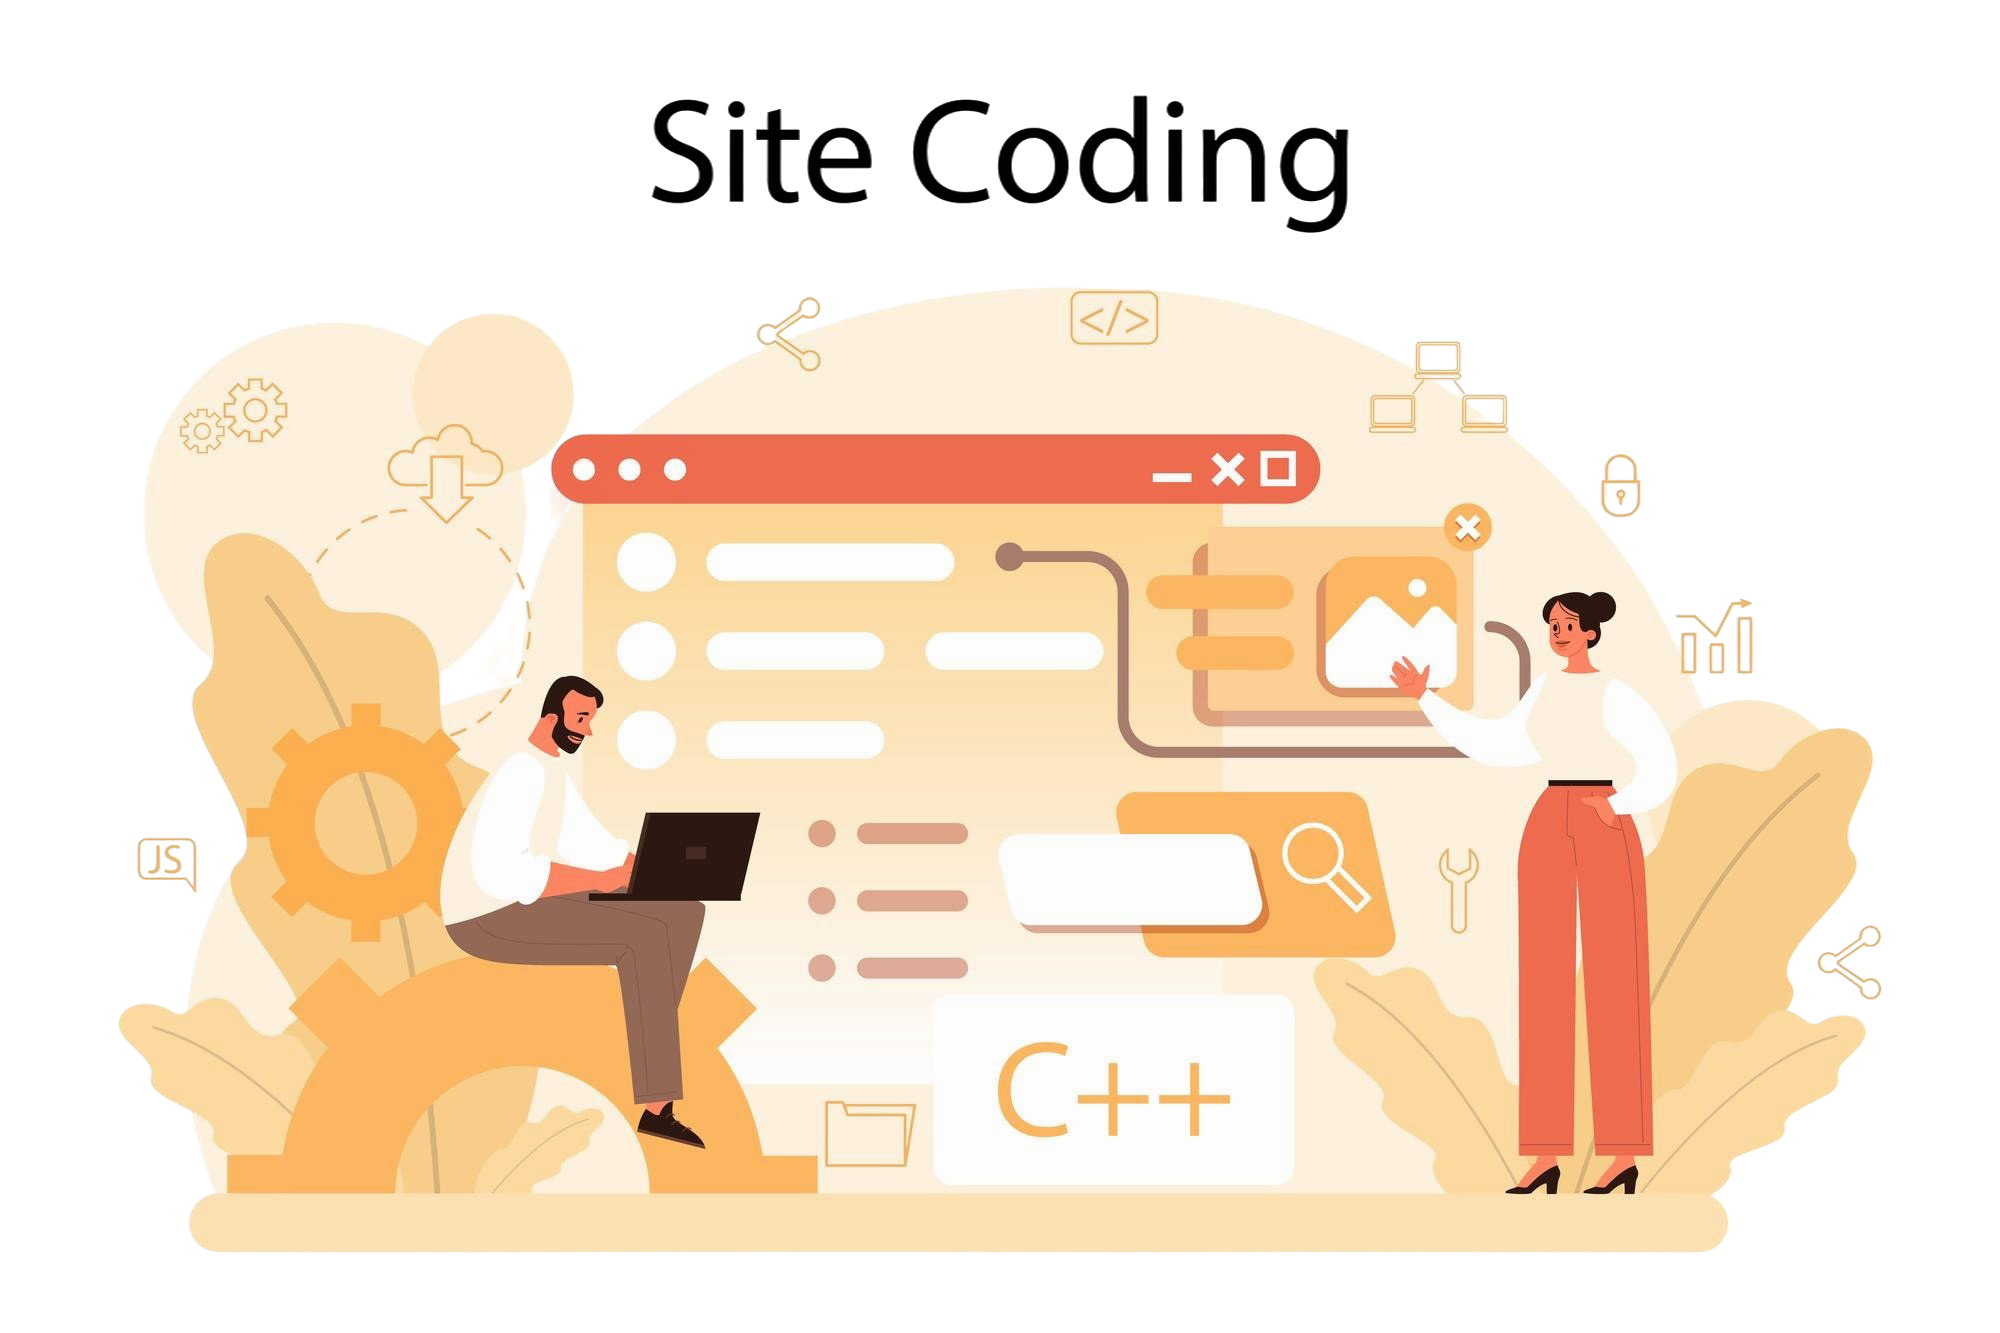
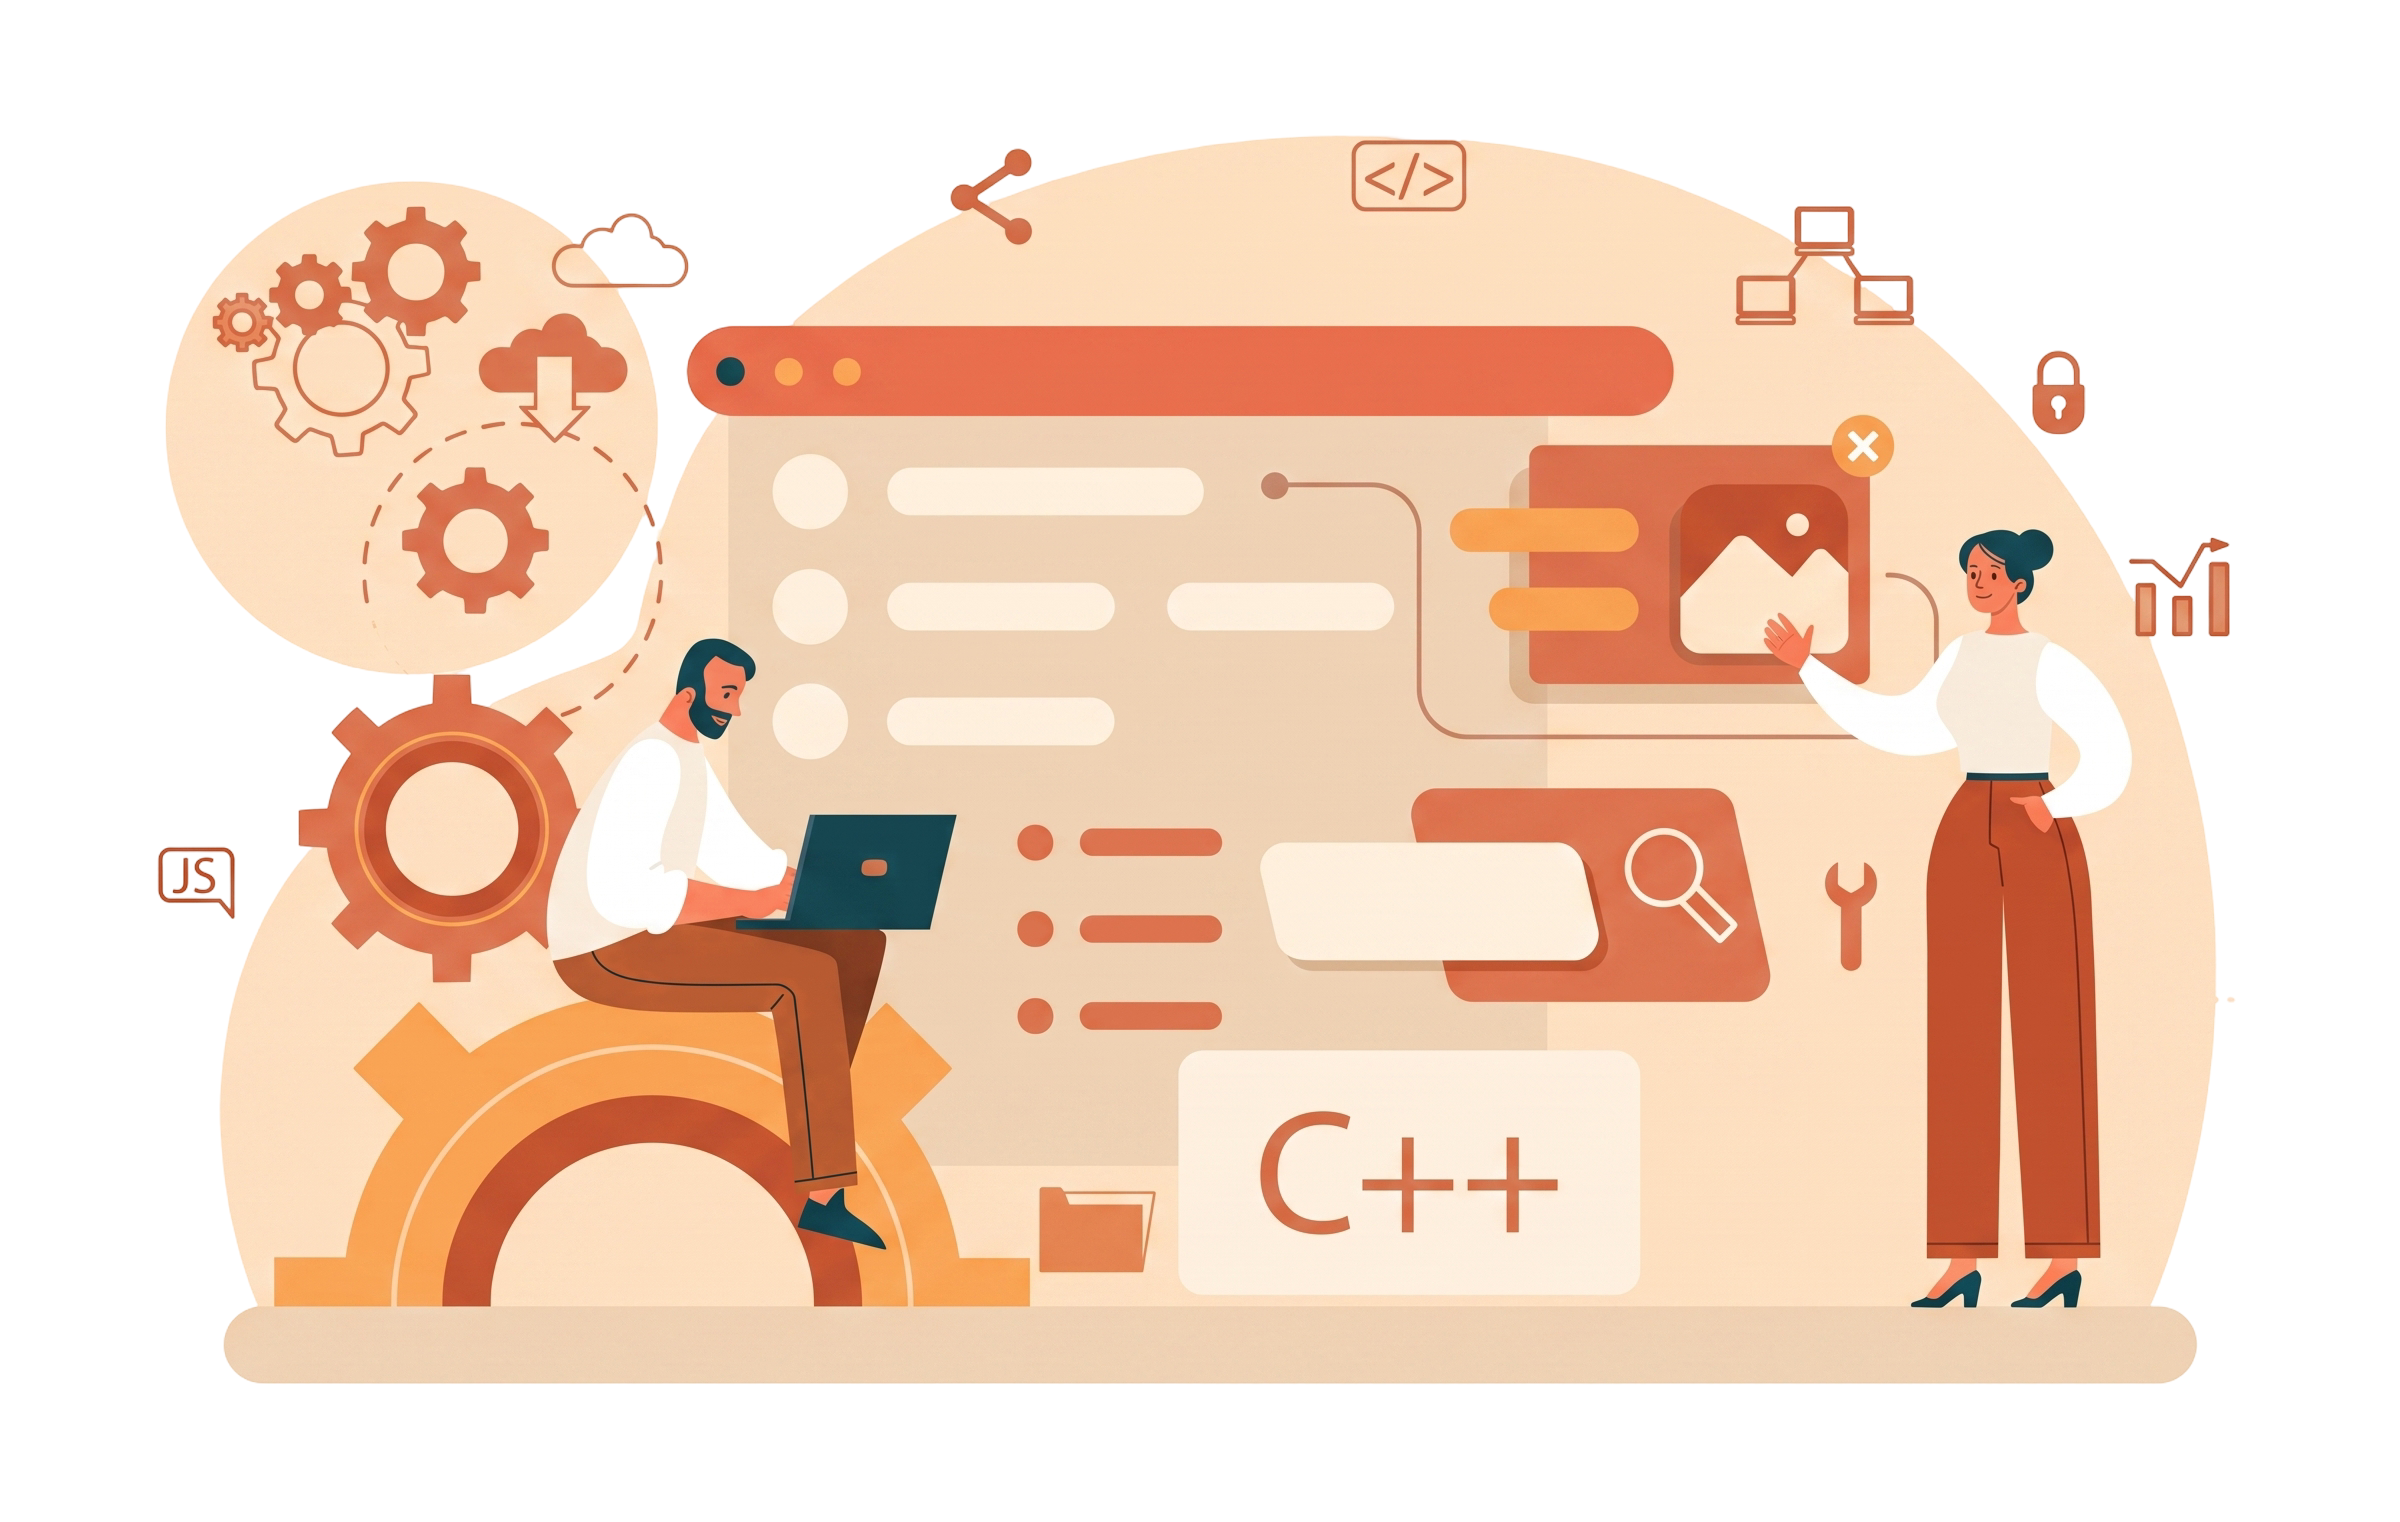
new changes

diff --git a/src/pages/Home/Home.jsx b/src/pages/Home/Home.jsx
@@ -1,11 +1,12 @@
 import DESLOGO from "../../assets/images/header/DES_logo_white.png";
-import React from "react";
+import React, { useState } from "react";
+import { Link } from "react-router-dom";
 import Header from "../../components/Header";
 import Footer from "../../components/Footer";
 //import HeroImg1 from "../../assets/images/hero/img-hero-1.jpg";
-import HeroImg2 from "../../assets/images/hero/img-hero-2.jpg";
-import BgBoxQuote from "../../assets/images/hero/bg-box-quote.jpg";
-import avtTeam3 from "../../assets/images/hero/avt-team-3.jpg";
+import HeroImg2 from "../../assets/images/hero/img-hero-2.jpeg";
+import BgBoxQuote from "../../assets/images/hero/bg-box-quote.jpeg";
+import avtTeam3 from "../../assets/images/hero/avt-team-3.jpeg";
 import avtTeam2 from "../../assets/images/hero/avt-team-2.jpg";
 import avtTeam1 from "../../assets/images/hero/avt-team-1.jpg";
 //import ImgSectionStrategy from "../../assets/images/section/img-section-strategy.jpg";
@@ -88,6 +89,7 @@ import ImgSectionWhy4 from '../../assets/images/homePageImgs/ImgSectionWhy4.jpg'
 import "./client-logo-fix.css";
 
 export default function Home() {
+  const [isVideoOpen, setIsVideoOpen] = useState(false);
   return (
     <>
       <main className="wrapper" id="wrapper">
@@ -286,18 +288,10 @@ export default function Home() {
                       <br />
                       Solutions
                     </div>
-                    <div className="user-box">
-                      <a href="#" className="fw-5 letter-space--3">
-                        Michael Anderson
-                      </a>
-                      <a href="#" className="text-caption letter-space--3 fw-5">
-                        CEO & Founder
-                      </a>
-                    </div>
                   </div>
                 </div>
               </div>
-              <div className="image-hero img-2 wow fadeInRight">
+              {/* <div className="image-hero img-2 wow fadeInRight">
                 <img
                   loading="lazy"
                   width="453"
@@ -306,7 +300,7 @@ export default function Home() {
                   src={HeroImg2}
                   alt="Image"
                 />
-              </div>
+              </div> */}
             </div>
           </div>
         </section>
@@ -478,15 +472,30 @@ export default function Home() {
               <div className="col-12 col-md-6 col-lg-8">
                 <div className="wg-video wow fadeInUp">
                   <div className="image">
-                    <img
-                      loading="lazy"
-                      width="850"
-                      height="470"
-                      // src="./assets/images/section/img-video.jpg"
-                      src={ImgVideo}
-                      alt="Image"
-                    />
+                    {isVideoOpen ? (
+                      <video 
+                        width="850" 
+                        height="470" 
+                        controls 
+                        autoPlay 
+                        playsInline
+                        poster={ImgVideo}
+                        style={{ width: "100%", height: "100%", objectFit: "cover" }}
+                      >
+                        <source src={HomePageVideo} type="video/mp4" />
+                        Your browser does not support the video tag.
+                      </video>
+                    ) : (
+                      <img
+                        loading="lazy"
+                        width="850"
+                        height="470"
+                        src={ImgVideo}
+                        alt="Image"
+                      />
+                    )}
                   </div>
+                  
                   {/* <a
                     href="https://www.youtube.com/watch?v=XHOmBV4js_E"
                     className="popup-youtube btn-play"
@@ -498,17 +507,21 @@ export default function Home() {
                       <i className="icon-play icon-color-red"></i>
                     </div>
                   </a> */}
-                  <a
-                    href={HomePageVideo}
-                    className="popup-video btn-play"
-                  >
-                    <div className="icon">
-                      <div className="wave"></div>
-                      <div className="wave"></div>
-                      <div className="wave"></div>
-                      <i className="icon-play icon-color-red"></i>
+                  
+                  {!isVideoOpen && (
+                    <div
+                      className="btn-play"
+                      onClick={() => setIsVideoOpen(true)}
+                      style={{ cursor: "pointer" }}
+                    >
+                      <div className="icon">
+                        <div className="wave"></div>
+                        <div className="wave"></div>
+                        <div className="wave"></div>
+                        <i className="icon-play icon-color-red"></i>
+                      </div>
                     </div>
-                  </a>
+                  )}
                 </div>
               </div>
 

diff --git a/src/pages/Company/Contact.jsx b/src/pages/Company/Contact.jsx
@@ -2,8 +2,9 @@ import DESLOGO from "../../assets/images/header/DES_logo_white.png";
 import React from 'react';
 import Header from '../../components/Header';
 import Footer from '../../components/Footer';
-import ContactTitleImage from "../../assets/images/contact/img-page-title.jpg"
-import ContactImage from "../../assets/images/contact/img-contact.jpg"
+//import ContactTitleImage from "../../assets/images/contact/img-page-title.jpg"
+import ContactTitleImage from "../../assets/images/contact/img-page-title.png"
+import ContactImage from "../../assets/images/contact/img-contact.png"
 import DESLogoSideBar from "../../assets/images/header/DES_logo_new.svg";
 import PopUpSidebar1 from "../../assets/images/widget/pop-up-siderbar-1.jpg";
 import PopUpSidebar2 from "../../assets/images/widget/pop-up-siderbar-2.jpg";

diff --git a/src/components/Footer.jsx b/src/components/Footer.jsx
@@ -117,13 +117,13 @@ export default function Footer() {
                       </a>
                     </li>
                     <li className="support-item-footer">
-                      <a href="#" className="ff-2">
-                        Need a Careers
+                      <a href="/faqs" className="ff-2">
+                        FAQs
                       </a>
                     </li>
                     <li className="support-item-footer">
-                      <a href="#" className="ff-2">
-                        Articles & news
+                      <a href="/portfolio" className="ff-2">
+                        Portfolio
                       </a>
                     </li>
                   </ul>

diff --git a/src/App.jsx b/src/App.jsx
@@ -60,7 +60,7 @@ function App() {
         <Route path="/home-seo-marketing" element={<HomeSeoMarketing />} />
         <Route path="/index" element={<Index />} />
         <Route path="/our-team" element={<OurTeam />} />
-        <Route path="/portfolio-1" element={<Portfolio1 />} />
+        <Route path="/portfolio" element={<Portfolio1 />} />
         <Route path="/portfolio-2" element={<Portfolio2 />} />
         <Route path="/portfolio-details" element={<PortfolioDetails />} />
         <Route path="/pricing-plan" element={<PricingPlan />} />

diff --git a/src/components/Header.jsx b/src/components/Header.jsx
@@ -159,7 +159,7 @@ export default function Header() {
                   </li>
 
                   <li className="menu-item has-sub_menu">
-                    <a href="/portfolio-1" className="item-link">
+                    <a href="/portfolio" className="item-link">
                       Portfolio
                       {/* <span className="icon icon-chevron-down"></span> */}
                     </a>

diff --git a/src/pages/Company/AboutUs.jsx b/src/pages/Company/AboutUs.jsx
@@ -67,8 +67,8 @@ export default function AboutUs() {
                   ,
                   <br />
                   increase visibility
-                  <br />
-                  and grow faster
+                  {/* <br />
+                  and grow faster */}
                 </h1>
                 <div className="breadkcum">
                   <a href="/">Home</a>
